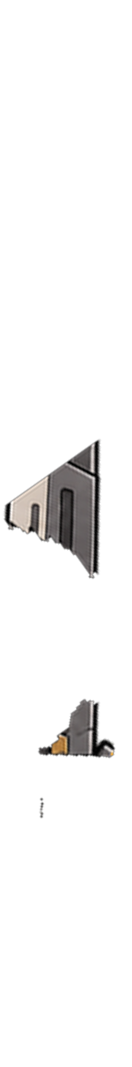
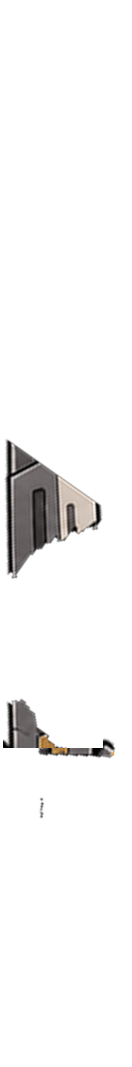
19 네온 팔로메 v1.3: 칼날 좌우 반전(날이 휘두르는 쪽으로)
DHL 10-20 20:38 '칼을 좌우반전 · 칼날이 뒤에 있어요'. 세운 칼 그림에서
날밑 위 칼날만 칼날 가운데 세로선으로 거울 — 날밑·손잡이·폼멜·쥔 점 그대로.
guardArt·칼끝 점도 같은 거울. 공격 꼭대기 585 → 583.

Claude-Session: https://claude.ai/code/session_011WxNHak8EsK79yqEoeePC7

Changed region(s): [[0.0303, 0.4021, 0.7879, 0.5567], [0.0303, 0.6495, 0.7879, 0.7113]]

diff --git a/assets/rig/palome-neon/rig.def.js b/assets/rig/palome-neon/rig.def.js
@@ -1,3 +1,3 @@
 // 자동 생성: rig.json을 JS로 감싼 것. 원본은 같은 폴더의 rig.json (source/build_neon19.py)
 window.MR_RIG_DEFS=window.MR_RIG_DEFS||{};
-window.MR_RIG_DEFS['palome-neon']={"name": "palome-neon", "version": "9897b4d6", "units": "rig px (원화 512 ×2)", "refOrigin": [560.0, 1002.0], "refScale": 1.0, "refLift": 0, "parts": {"torso": {"src": "parts/torso.png", "pivot": [182.0, 243.0], "scale": 2.0}, "skirt": {"src": "parts/skirt.png", "pivot": [133.0, 18.0], "scale": 2.0, "mesh": {"cols": 8, "rows": 6}}, "head": {"src": "parts/head.png", "pivot": [77.0, 146.0], "scale": 2.0}, "pauldron": {"src": "parts/pauldron.png", "pivot": [93.0, 93.0], "scale": 2.0}, "armU": {"src": "parts/armU.png", "pivot": [54.0, 22.0], "scale": 2.0, "elbow": [28.0, 83.0]}, "armL": {"src": "parts/armL.png", "pivot": [51.0, 16.0], "scale": 2.0, "fist": [79.8, 94.0]}, "armF": {"src": "parts/armF.png", "pivot": [29.0, 31.0], "scale": 2.0, "elbow": [85.0, 87.0]}, "foreF": {"src": "parts/foreF.png", "pivot": [38.0, 55.0], "scale": 2.0}, "fistF": {"src": "parts/fistF.png", "pivot": [39.0, 61.0], "scale": 2.0}, "weapon": {"src": "parts/weapon.png", "pivot": [54.0, 887.0], "scale": 1.0, "tip": [66.1, 7.3], "tips": [[54.1, 27.3], [94.1, 27.3]], "guard": [58.0, 771.6], "pommel": [49.0, 1031.2]}, "guardArt": {"src": "parts/guardArt.png", "pivot": [54.0, 887.0], "scale": 1.0}, "face_happy": {"src": "parts/face_happy.png", "pivot": [77.0, 146.0], "scale": 2.0}, "face_angry": {"src": "parts/face_angry.png", "pivot": [77.0, 146.0], "scale": 2.0}, "face_focus": {"src": "parts/face_focus.png", "pivot": [77.0, 146.0], "scale": 2.0}, "face_shout": {"src": "parts/face_shout.png", "pivot": [77.0, 146.0], "scale": 2.0}, "face_effort": {"src": "parts/face_effort.png", "pivot": [77.0, 146.0], "scale": 2.0}, "face_half": {"src": "parts/face_half.png", "pivot": [77.0, 146.0], "scale": 2.0}, "face_closed": {"src": "parts/face_closed.png", "pivot": [77.0, 146.0], "scale": 2.0}, "bootStandN": {"src": "parts/bootStandN.png", "pivot": [30.0, 44.0], "scale": 2.0}, "bootStandF": {"src": "parts/bootStandF.png", "pivot": [37.0, 43.0], "scale": 2.0}, "bootNRun": {"src": "parts/bootNRun.png", "pivot": [22.7, 36.0], "scale": 2.0}, "bootFRun": {"src": "parts/bootFRun.png", "pivot": [21.1, 32.0], "scale": 2.0}, "shinP": {"src": "parts/shinP.png", "pivot": [0, 0], "scale": 1}, "gF": {"src": "parts/fistF.png", "pivot": [39.0, 61.0], "grip": [34.0, 37.4], "elbow": [39.0, 61.0], "wrist": [39.0, 61.0], "scale": 2.0, "shaftDir": [-0.8173, -0.5763], "fore": "foreFa", "foreBone": "foreFb", "foreDir": [0.0748, 0.9972]}, "foreFa": {"src": "parts/foreF.png", "pivot": [35.0, 15.0], "elbow": [38.0, 55.0], "scale": 2.0}}, "bones": [{"name": "root", "parent": null, "pos": [0, 0]}, {"name": "hip", "parent": "root", "pos": [16.0, -192.0]}, {"name": "skirt", "parent": "hip", "pos": [0.0, 0.0], "part": "skirt"}, {"name": "torso", "parent": "hip", "pos": [0.0, 0.0], "part": "torso"}, {"name": "head", "parent": "torso", "pos": [24.0, -200.0], "part": "head"}, {"name": "armF", "parent": "torso", "pos": [128.0, -258.0], "part": "armF"}, {"name": "foreF", "parent": "armF", "pos": [112.0, 112.0], "part": "foreF"}, {"name": "fistF", "parent": "foreF", "pos": [-6.0, -80.0], "part": "fistF"}, {"name": "weapon", "parent": "fistF", "pos": [-10.0, -47.2], "rot": -0.9567, "part": "weapon"}, {"name": "armU", "parent": "torso", "pos": [-232.0, -246.0], "part": "armU"}, {"name": "armL", "parent": "armU", "pos": [-52.0, 122.0], "rot": 0.3, "part": "armL"}, {"name": "pauldron", "parent": "torso", "pos": [-232.0, -246.0], "part": "pauldron"}, {"name": "cape", "parent": "torso", "pos": [24.0, -200.0]}, {"name": "scarf", "parent": "torso", "pos": [24.0, -200.0]}, {"name": "pouch", "parent": "hip", "pos": [0.0, 0.0]}, {"name": "pauldronF", "parent": "torso", "pos": [128.0, -258.0]}, {"name": "foreFb", "parent": "torso", "pos": [234.0, -226.0]}, {"name": "guardArt", "parent": "weapon", "pos": [0.0, 0.0], "part": "guardArt"}], "legs": {"hip": [0, 66.0], "thigh": 48, "shin": 48, "thighImg": {"part": "shinP", "a": [22, 0], "b": [22, 46], "w": 0.001}, "shinImg": {"part": "shinP", "a": [22, 0], "b": [22, 46], "w": 0.001}, "boot": {"part": "bootFRun", "sole": [[-19.1, 16.0], [-5.1, 17.0], [11.9, 18.0], [28.9, 18.0], [42.9, 17.0]], "ankleRange": [-1.7, 1.7]}, "tube": {"part": "shinP", "a": [22, 0], "b": [22, 46], "k": 1.2, "runBoot": true}, "near": {"x": -124.0, "shade": 0, "thighImg": {"part": "shinP", "a": [22, 0], "b": [22, 46], "w": 0.001}, "shinImg": {"part": "shinP", "a": [22, 0], "b": [22, 46], "w": 0.001}, "runBoot": "bootNRun", "stand": {"fade": [0.12, 0.4], "boot": {"part": "bootStandN", "sole": [[-27.0, 13.0], [-16.0, 18.0], [20.0, 15.0], [31.0, -20.0]]}}}, "far": {"x": 90.0, "shade": 0, "thighImg": {"part": "shinP", "a": [22, 0], "b": [22, 46], "w": 0.001}, "shinImg": {"part": "shinP", "a": [22, 0], "b": [22, 46], "w": 0.001}, "runBoot": "bootFRun", "stand": {"fade": [0.12, 0.4], "boot": {"part": "bootStandF", "sole": [[-34.0, -12.0], [-22.0, 16.0], [6.0, 19.0], [19.0, 18.0], [31.0, 16.0]]}}}}, "draw": ["legFar", "legNear", "torso", "skirt", "foreF", "weapon", "guardArt", "armU", "armL", "pauldron", "head", "fistF"], "hidden": [], "faces": {"happy": "face_happy", "angry": "face_angry", "focus": "face_focus", "shout": "face_shout", "effort": "face_effort"}, "blinkFaces": {"half": "face_half", "closed": "face_closed"}, "idleStance": {"near": -8.0, "far": 10.0}, "gait": {"stance": 0.18, "strideBase": 14, "strideK": 0.06, "hipBase": 0, "bob": 6, "lean": 0.06, "waddle": 0.02, "headBob": 3, "kneeLift": 0.2, "heelKick": 0.03, "dropCap": 12, "swingReach": 0.05, "landAng": -0.04, "angK": 0.2, "elbowRun": 0.22, "armSwing": 0.16, "armBias": 0.0, "headRun": 0.06}, "hemRun": {"lift": 8, "knee": 0.5, "heel": 0.3, "reach": 0.2}, "hemLimit": {"up": 0.25, "x": 0.3}, "hemGain": 0.15, "footReach": 0.97, "follow": [{"bone": "pauldron", "src": "armU", "k": 0.3}], "skirtFollow": 0.7, "carrySwing": 0.15, "wristRange": 0.2, "dropLift": 10, "bounce": [], "metrics": {"bodyHeight": 684, "note": "rig units; 머리카락 위(y159)~발바닥(501) ×2, 칼 제외"}, "ui": {"attack": "smash", "touch": "hop"}, "gameRef": {"refOrigin": [245.6, 501.0], "refScale": 2.0, "refLift": 0, "note": "게임 그림 char_0019.png(512) = 새 원화(ref512). x = 도감 칸(fitArt 중심 253.6, index.html measureBox 와 같은 계산)에서 골반(hip x 288)이 가운데 (9·29 팔로메와 같은 규칙)"}, "note": "19 네온 팔로메 v1(대기·달리기·한 손 내려찍기). 9 러스트 팔로메 구조(드워프 몸, 먼 팔이 칼을 어깨에 멤, 칼날 머리 뒤). 조각 = 원화를 부품별로 나눔(seg19.py) + 가려진 곳만 시트·inpaint 로 메움", "swordGrip": {"tipDepth": 6, "near": {"upper": "armF", "carry": "gF", "pieces": []}, "far": {"upper": "armU", "pieces": ["armL"], "sPref": 0}, "stretchMax": 1.05, "shoulderPush": 0}, "drawA": ["legFar", "legNear", "armF", "torso", "skirt", "foreFb", "weapon", "armU", "armL", "pauldron", "head", "foreF"], "drawStrike": ["legFar", "legNear", "armF", "torso", "skirt", "foreFb", "armU", "armL", "pauldron", "head", "weapon", "foreF"], "drawR": ["legFar", "legNear", "torso", "skirt", "foreFb", "weapon", "armU", "armL", "pauldron", "head", "foreF"], "drawB": ["legFar", "legNear", "armF", "foreFb", "weapon", "foreF", "torso", "skirt", "armU", "armL", "pauldron", "head"], "drawB0": ["legFar", "legNear", "foreFb", "weapon", "foreF", "torso", "skirt", "armU", "armL", "pauldron", "head"], "drawA0": ["legFar", "legNear", "armF", "torso", "skirt", "foreFb", "weapon", "guardArt", "armU", "armL", "pauldron", "head", "foreF"], "drawR0": ["legFar", "legNear", "torso", "skirt", "foreFb", "weapon", "guardArt", "armU", "armL", "pauldron", "head", "foreF"], "actions": {"smash": {"kind": "sword", "rigid": true, "orderAlways": true, "dur": 0.9, "hitAt": 0.45, "hitStop": 0.07, "cancelAt": 0.66, "w": [[0, 1]], "reach": [[0, 0]], "nPiece": [[0, "gF"]], "nUpper": [[0, "armF"]], "armIK": [[0, 1]], "ikSideK": {"N": [[0, 1]]}, "gx": [[0.0, 224.0, "io"], [0.12, 212.0, "io"], [0.28, 192.0, "io"], [0.33, 224.0, "lin"], [0.355, 276.0, "lin"], [0.37, 284.0, "lin"], [0.385, 304.0, "lin"], [0.4, 312.0, "lin"], [0.415, 348.0, "lin"], [0.43, 332.0, "lin"], [0.45, 314.0, "io"], [0.6, 310.0, "io"], [0.65, 348.0, "lin"], [0.7, 304.0, "lin"], [0.75, 276.0, "io"], [0.8, 224.0, "io"], [0.86, 224.0, "io"]], "gy": [[0.0, -273.2, "io"], [0.12, -338.0, "io"], [0.28, -410.0, "io"], [0.33, -232.0, "lin"], [0.355, -170.0, "lin"], [0.37, -138.0, "lin"], [0.385, -104.0, "lin"], [0.4, -76.0, "lin"], [0.415, -60.0, "lin"], [0.43, -36.0, "lin"], [0.45, 2.0, "io"], [0.6, 0.0, "io"], [0.65, -60.0, "lin"], [0.7, -104.0, "lin"], [0.75, -170.0, "io"], [0.8, -232.0, "io"], [0.86, -273.2, "io"]], "sa": [[0.0, -2.5168, "io"], [0.12, -2.6529, "io"], [0.28, -2.8972, "io"], [0.33, -2.3736, "lin"], [0.355, -2.0944, "lin"], [0.37, -1.8326, "lin"], [0.385, -1.5708, "lin"], [0.4, -1.309, "lin"], [0.415, -1.0472, "lin"], [0.43, -0.7854, "lin"], [0.45, 0.096, "io"], [0.6, 0.096, "io"], [0.65, -1.0472, "lin"], [0.7, -1.5708, "lin"], [0.75, -2.0944, "io"], [0.8, -2.3736, "io"], [0.86, -2.5168, "io"]], "lean": [[0.0, 0.0, "io"], [0.12, -0.0698, "io"], [0.28, -0.1571, "io"], [0.33, 0.1047, "lin"], [0.355, 0.1745, "lin"], [0.37, 0.2269, "lin"], [0.385, 0.2443, "lin"], [0.4, 0.2443, "lin"], [0.415, 0.2443, "lin"], [0.43, 0.2443, "lin"], [0.45, 0.2443, "io"], [0.6, 0.2269, "io"], [0.65, 0.2443, "lin"], [0.7, 0.2443, "lin"], [0.75, 0.1745, "io"], [0.8, 0.1047, "io"], [0.86, 0.0, "io"]], "hipY": [[0.0, 0.0, "io"], [0.12, 8.0, "io"], [0.28, 0.0, "io"], [0.33, 12.0, "lin"], [0.355, 18.0, "lin"], [0.37, 22.0, "lin"], [0.385, 24.0, "lin"], [0.4, 24.0, "lin"], [0.415, 24.0, "lin"], [0.43, 24.0, "lin"], [0.45, 24.0, "io"], [0.6, 22.0, "io"], [0.65, 24.0, "lin"], [0.7, 24.0, "lin"], [0.75, 18.0, "io"], [0.8, 12.0, "io"], [0.86, 0.0, "io"]], "head": [[0, 0], [0.28, -0.06, "io"], [0.45, 0.05, "io"], [0.6, 0.04, "io"], [0.86, 0]], "freeArm": true, "fuA": [[0, 0], [0.28, -0.12, "io"], [0.45, 0.3, "o"], [0.6, 0.26, "io"], [0.86, 0]], "flA": [[0, 0], [0.28, -0.08, "io"], [0.45, 0.18, "o"], [0.6, 0.15, "io"], [0.86, 0]], "face": [[0, "angry"], [0.12, "effort"], [0.4, "shout"], [0.62, "focus"], [0.82, null]], "order": [[0, "drawA0"], [0.04, "drawA"], [0.31, "drawB0"], [0.35, "drawB"], [0.73, "drawR"], [0.85, "drawR0"]]}}, "cutHold": 0.25};
+window.MR_RIG_DEFS['palome-neon']={"name": "palome-neon", "version": "43a77fc4", "units": "rig px (원화 512 ×2)", "refOrigin": [560.0, 1002.0], "refScale": 1.0, "refLift": 0, "parts": {"torso": {"src": "parts/torso.png", "pivot": [182.0, 243.0], "scale": 2.0}, "skirt": {"src": "parts/skirt.png", "pivot": [133.0, 18.0], "scale": 2.0, "mesh": {"cols": 8, "rows": 6}}, "head": {"src": "parts/head.png", "pivot": [77.0, 146.0], "scale": 2.0}, "pauldron": {"src": "parts/pauldron.png", "pivot": [93.0, 93.0], "scale": 2.0}, "armU": {"src": "parts/armU.png", "pivot": [54.0, 22.0], "scale": 2.0, "elbow": [28.0, 83.0]}, "armL": {"src": "parts/armL.png", "pivot": [51.0, 16.0], "scale": 2.0, "fist": [79.8, 94.0]}, "armF": {"src": "parts/armF.png", "pivot": [29.0, 31.0], "scale": 2.0, "elbow": [85.0, 87.0]}, "foreF": {"src": "parts/foreF.png", "pivot": [38.0, 55.0], "scale": 2.0}, "fistF": {"src": "parts/fistF.png", "pivot": [39.0, 61.0], "scale": 2.0}, "weapon": {"src": "parts/weapon.png", "pivot": [54.0, 887.0], "scale": 1.0, "tip": [38.9, 7.3], "tips": [[50.9, 27.3], [10.9, 27.3]], "guard": [58.0, 771.6], "pommel": [49.0, 1031.2]}, "guardArt": {"src": "parts/guardArt.png", "pivot": [54.0, 887.0], "scale": 1.0}, "face_happy": {"src": "parts/face_happy.png", "pivot": [77.0, 146.0], "scale": 2.0}, "face_angry": {"src": "parts/face_angry.png", "pivot": [77.0, 146.0], "scale": 2.0}, "face_focus": {"src": "parts/face_focus.png", "pivot": [77.0, 146.0], "scale": 2.0}, "face_shout": {"src": "parts/face_shout.png", "pivot": [77.0, 146.0], "scale": 2.0}, "face_effort": {"src": "parts/face_effort.png", "pivot": [77.0, 146.0], "scale": 2.0}, "face_half": {"src": "parts/face_half.png", "pivot": [77.0, 146.0], "scale": 2.0}, "face_closed": {"src": "parts/face_closed.png", "pivot": [77.0, 146.0], "scale": 2.0}, "bootStandN": {"src": "parts/bootStandN.png", "pivot": [30.0, 44.0], "scale": 2.0}, "bootStandF": {"src": "parts/bootStandF.png", "pivot": [37.0, 43.0], "scale": 2.0}, "bootNRun": {"src": "parts/bootNRun.png", "pivot": [22.7, 36.0], "scale": 2.0}, "bootFRun": {"src": "parts/bootFRun.png", "pivot": [21.1, 32.0], "scale": 2.0}, "shinP": {"src": "parts/shinP.png", "pivot": [0, 0], "scale": 1}, "gF": {"src": "parts/fistF.png", "pivot": [39.0, 61.0], "grip": [34.0, 37.4], "elbow": [39.0, 61.0], "wrist": [39.0, 61.0], "scale": 2.0, "shaftDir": [-0.8173, -0.5763], "fore": "foreFa", "foreBone": "foreFb", "foreDir": [0.0748, 0.9972]}, "foreFa": {"src": "parts/foreF.png", "pivot": [35.0, 15.0], "elbow": [38.0, 55.0], "scale": 2.0}}, "bones": [{"name": "root", "parent": null, "pos": [0, 0]}, {"name": "hip", "parent": "root", "pos": [16.0, -192.0]}, {"name": "skirt", "parent": "hip", "pos": [0.0, 0.0], "part": "skirt"}, {"name": "torso", "parent": "hip", "pos": [0.0, 0.0], "part": "torso"}, {"name": "head", "parent": "torso", "pos": [24.0, -200.0], "part": "head"}, {"name": "armF", "parent": "torso", "pos": [128.0, -258.0], "part": "armF"}, {"name": "foreF", "parent": "armF", "pos": [112.0, 112.0], "part": "foreF"}, {"name": "fistF", "parent": "foreF", "pos": [-6.0, -80.0], "part": "fistF"}, {"name": "weapon", "parent": "fistF", "pos": [-10.0, -47.2], "rot": -0.9567, "part": "weapon"}, {"name": "armU", "parent": "torso", "pos": [-232.0, -246.0], "part": "armU"}, {"name": "armL", "parent": "armU", "pos": [-52.0, 122.0], "rot": 0.3, "part": "armL"}, {"name": "pauldron", "parent": "torso", "pos": [-232.0, -246.0], "part": "pauldron"}, {"name": "cape", "parent": "torso", "pos": [24.0, -200.0]}, {"name": "scarf", "parent": "torso", "pos": [24.0, -200.0]}, {"name": "pouch", "parent": "hip", "pos": [0.0, 0.0]}, {"name": "pauldronF", "parent": "torso", "pos": [128.0, -258.0]}, {"name": "foreFb", "parent": "torso", "pos": [234.0, -226.0]}, {"name": "guardArt", "parent": "weapon", "pos": [0.0, 0.0], "part": "guardArt"}], "legs": {"hip": [0, 66.0], "thigh": 48, "shin": 48, "thighImg": {"part": "shinP", "a": [22, 0], "b": [22, 46], "w": 0.001}, "shinImg": {"part": "shinP", "a": [22, 0], "b": [22, 46], "w": 0.001}, "boot": {"part": "bootFRun", "sole": [[-19.1, 16.0], [-5.1, 17.0], [11.9, 18.0], [28.9, 18.0], [42.9, 17.0]], "ankleRange": [-1.7, 1.7]}, "tube": {"part": "shinP", "a": [22, 0], "b": [22, 46], "k": 1.2, "runBoot": true}, "near": {"x": -124.0, "shade": 0, "thighImg": {"part": "shinP", "a": [22, 0], "b": [22, 46], "w": 0.001}, "shinImg": {"part": "shinP", "a": [22, 0], "b": [22, 46], "w": 0.001}, "runBoot": "bootNRun", "stand": {"fade": [0.12, 0.4], "boot": {"part": "bootStandN", "sole": [[-27.0, 13.0], [-16.0, 18.0], [20.0, 15.0], [31.0, -20.0]]}}}, "far": {"x": 90.0, "shade": 0, "thighImg": {"part": "shinP", "a": [22, 0], "b": [22, 46], "w": 0.001}, "shinImg": {"part": "shinP", "a": [22, 0], "b": [22, 46], "w": 0.001}, "runBoot": "bootFRun", "stand": {"fade": [0.12, 0.4], "boot": {"part": "bootStandF", "sole": [[-34.0, -12.0], [-22.0, 16.0], [6.0, 19.0], [19.0, 18.0], [31.0, 16.0]]}}}}, "draw": ["legFar", "legNear", "torso", "skirt", "foreF", "weapon", "guardArt", "armU", "armL", "pauldron", "head", "fistF"], "hidden": [], "faces": {"happy": "face_happy", "angry": "face_angry", "focus": "face_focus", "shout": "face_shout", "effort": "face_effort"}, "blinkFaces": {"half": "face_half", "closed": "face_closed"}, "idleStance": {"near": -8.0, "far": 10.0}, "gait": {"stance": 0.18, "strideBase": 14, "strideK": 0.06, "hipBase": 0, "bob": 6, "lean": 0.06, "waddle": 0.02, "headBob": 3, "kneeLift": 0.2, "heelKick": 0.03, "dropCap": 12, "swingReach": 0.05, "landAng": -0.04, "angK": 0.2, "elbowRun": 0.22, "armSwing": 0.16, "armBias": 0.0, "headRun": 0.06}, "hemRun": {"lift": 8, "knee": 0.5, "heel": 0.3, "reach": 0.2}, "hemLimit": {"up": 0.25, "x": 0.3}, "hemGain": 0.15, "footReach": 0.97, "follow": [{"bone": "pauldron", "src": "armU", "k": 0.3}], "skirtFollow": 0.7, "carrySwing": 0.15, "wristRange": 0.2, "dropLift": 10, "bounce": [], "metrics": {"bodyHeight": 684, "note": "rig units; 머리카락 위(y159)~발바닥(501) ×2, 칼 제외"}, "ui": {"attack": "smash", "touch": "hop"}, "gameRef": {"refOrigin": [245.6, 501.0], "refScale": 2.0, "refLift": 0, "note": "게임 그림 char_0019.png(512) = 새 원화(ref512). x = 도감 칸(fitArt 중심 253.6, index.html measureBox 와 같은 계산)에서 골반(hip x 288)이 가운데 (9·29 팔로메와 같은 규칙)"}, "note": "19 네온 팔로메 v1(대기·달리기·한 손 내려찍기). 9 러스트 팔로메 구조(드워프 몸, 먼 팔이 칼을 어깨에 멤, 칼날 머리 뒤). 조각 = 원화를 부품별로 나눔(seg19.py) + 가려진 곳만 시트·inpaint 로 메움", "swordGrip": {"tipDepth": 6, "near": {"upper": "armF", "carry": "gF", "pieces": []}, "far": {"upper": "armU", "pieces": ["armL"], "sPref": 0}, "stretchMax": 1.05, "shoulderPush": 0}, "drawA": ["legFar", "legNear", "armF", "torso", "skirt", "foreFb", "weapon", "armU", "armL", "pauldron", "head", "foreF"], "drawStrike": ["legFar", "legNear", "armF", "torso", "skirt", "foreFb", "armU", "armL", "pauldron", "head", "weapon", "foreF"], "drawR": ["legFar", "legNear", "torso", "skirt", "foreFb", "weapon", "armU", "armL", "pauldron", "head", "foreF"], "drawB": ["legFar", "legNear", "armF", "foreFb", "weapon", "foreF", "torso", "skirt", "armU", "armL", "pauldron", "head"], "drawB0": ["legFar", "legNear", "foreFb", "weapon", "foreF", "torso", "skirt", "armU", "armL", "pauldron", "head"], "drawA0": ["legFar", "legNear", "armF", "torso", "skirt", "foreFb", "weapon", "guardArt", "armU", "armL", "pauldron", "head", "foreF"], "drawR0": ["legFar", "legNear", "torso", "skirt", "foreFb", "weapon", "guardArt", "armU", "armL", "pauldron", "head", "foreF"], "actions": {"smash": {"kind": "sword", "rigid": true, "orderAlways": true, "dur": 0.9, "hitAt": 0.45, "hitStop": 0.07, "cancelAt": 0.66, "w": [[0, 1]], "reach": [[0, 0]], "nPiece": [[0, "gF"]], "nUpper": [[0, "armF"]], "armIK": [[0, 1]], "ikSideK": {"N": [[0, 1]]}, "gx": [[0.0, 224.0, "io"], [0.12, 212.0, "io"], [0.28, 192.0, "io"], [0.33, 224.0, "lin"], [0.355, 276.0, "lin"], [0.37, 284.0, "lin"], [0.385, 304.0, "lin"], [0.4, 312.0, "lin"], [0.415, 348.0, "lin"], [0.43, 332.0, "lin"], [0.45, 314.0, "io"], [0.6, 310.0, "io"], [0.65, 348.0, "lin"], [0.7, 304.0, "lin"], [0.75, 276.0, "io"], [0.8, 224.0, "io"], [0.86, 224.0, "io"]], "gy": [[0.0, -273.2, "io"], [0.12, -338.0, "io"], [0.28, -410.0, "io"], [0.33, -232.0, "lin"], [0.355, -170.0, "lin"], [0.37, -138.0, "lin"], [0.385, -104.0, "lin"], [0.4, -76.0, "lin"], [0.415, -60.0, "lin"], [0.43, -36.0, "lin"], [0.45, 2.0, "io"], [0.6, 0.0, "io"], [0.65, -60.0, "lin"], [0.7, -104.0, "lin"], [0.75, -170.0, "io"], [0.8, -232.0, "io"], [0.86, -273.2, "io"]], "sa": [[0.0, -2.5168, "io"], [0.12, -2.6529, "io"], [0.28, -2.8972, "io"], [0.33, -2.3736, "lin"], [0.355, -2.0944, "lin"], [0.37, -1.8326, "lin"], [0.385, -1.5708, "lin"], [0.4, -1.309, "lin"], [0.415, -1.0472, "lin"], [0.43, -0.7854, "lin"], [0.45, 0.096, "io"], [0.6, 0.096, "io"], [0.65, -1.0472, "lin"], [0.7, -1.5708, "lin"], [0.75, -2.0944, "io"], [0.8, -2.3736, "io"], [0.86, -2.5168, "io"]], "lean": [[0.0, 0.0, "io"], [0.12, -0.0698, "io"], [0.28, -0.1571, "io"], [0.33, 0.1047, "lin"], [0.355, 0.1745, "lin"], [0.37, 0.2269, "lin"], [0.385, 0.2443, "lin"], [0.4, 0.2443, "lin"], [0.415, 0.2443, "lin"], [0.43, 0.2443, "lin"], [0.45, 0.2443, "io"], [0.6, 0.2269, "io"], [0.65, 0.2443, "lin"], [0.7, 0.2443, "lin"], [0.75, 0.1745, "io"], [0.8, 0.1047, "io"], [0.86, 0.0, "io"]], "hipY": [[0.0, 0.0, "io"], [0.12, 8.0, "io"], [0.28, 0.0, "io"], [0.33, 12.0, "lin"], [0.355, 18.0, "lin"], [0.37, 22.0, "lin"], [0.385, 24.0, "lin"], [0.4, 24.0, "lin"], [0.415, 24.0, "lin"], [0.43, 24.0, "lin"], [0.45, 24.0, "io"], [0.6, 22.0, "io"], [0.65, 24.0, "lin"], [0.7, 24.0, "lin"], [0.75, 18.0, "io"], [0.8, 12.0, "io"], [0.86, 0.0, "io"]], "head": [[0, 0], [0.28, -0.06, "io"], [0.45, 0.05, "io"], [0.6, 0.04, "io"], [0.86, 0]], "freeArm": true, "fuA": [[0, 0], [0.28, -0.12, "io"], [0.45, 0.3, "o"], [0.6, 0.26, "io"], [0.86, 0]], "flA": [[0, 0], [0.28, -0.08, "io"], [0.45, 0.18, "o"], [0.6, 0.15, "io"], [0.86, 0]], "face": [[0, "angry"], [0.12, "effort"], [0.4, "shout"], [0.62, "focus"], [0.82, null]], "order": [[0, "drawA0"], [0.04, "drawA"], [0.31, "drawB0"], [0.35, "drawB"], [0.73, "drawR"], [0.85, "drawR0"]]}}, "cutHold": 0.25};

diff --git a/assets/rig/palome-neon/source/build_neon19.py b/assets/rig/palome-neon/source/build_neon19.py
@@ -205,6 +205,22 @@ _gm = (SW0[..., 3] > 0) & ((np.abs(SW0.astype(int) - sw.astype(int)).max(-1) > 8
 ga = np.zeros_like(SW0); ga[_gm] = SW0[_gm]
 ga2 = cv2.resize(ga, None, fx=UPS, fy=UPS, interpolation=cv2.INTER_LANCZOS4); ga2[..., 3] = np.clip(cv2.resize(ga[..., 3], None, fx=UPS, fy=UPS, interpolation=cv2.INTER_LINEAR), 0, 255)
 gav = cv2.warpAffine(ga2, Rm, (WS, HS), flags=cv2.INTER_CUBIC, borderValue=(0, 0, 0, 0))[y0:y0 + swv.shape[0], x0:x0 + swv.shape[1]]
+# 칼날 좌우 반전(10-20 20:38 DHL '칼을 좌우반전 · 칼날이 뒤에 있어요'): 원화는 크림 날이 어깨 쪽(아래), 회색 등이 위 → 앞으로 내려찍으면 등이 앞장섬.
+#   세운 칼 그림에서 날밑 위 칼날만 칼날 가운데 세로선(날밑 바로 위 칼날 폭 가운데)으로 거울 — 날밑·손잡이·폼멜은 그대로(주먹·쥔 점·칼 방향·길이 그대로).
+#   날밑 오른쪽 위 뿔(x > 102)은 날밑 것이라 빼고, 날밑 윗선(y ≥ 748)부터는 그대로. guardArt(대기 원화 칼 픽셀)도 같은 거울 → 대기 = '원화 칼을 뒤집은 것'
+FLIP_BLADE = True
+if FLIP_BLADE:
+    _al_ = swv[..., 3] > 40; _gy = int(round(W_GUARD[1])); _rows = [y for y in range(_gy - 40, _gy - 30) if _al_[y].any()]
+    _bx = [np.nonzero(_al_[y])[0] for y in _rows]; BCX = float(np.median([(b.min() + b.max()) / 2 for b in _bx]))   # 날밑 바로 위 칼날 폭 가운데
+    YCUT = _gy - 24; XL, XR = 3, int(2 * BCX) - 3
+    def _mir(img):
+        out = img.copy(); ys_ = slice(0, YCUT); xd = np.arange(XL, XR + 1); xs_ = np.round(2 * BCX - xd).astype(int)
+        blk = img[ys_][:, xs_].copy(); out[ys_, XL:XR + 1] = blk; return out
+    swv = _mir(swv); gav = _mir(gav)
+    W_TIP = np.array([2 * BCX - W_TIP[0], W_TIP[1]])
+    Image.fromarray(swv).save(os.path.join(PARTS, 'weapon.png')); Image.fromarray(gav).save(os.path.join(PARTS, 'guardArt.png'))
+    print('  blade flipped about x', BCX, 'rows <', YCUT, 'cols', XL, '~', XR)
+TIPS_DX = (12, -28) if FLIP_BLADE else (-12, 28)   # 칼끝 두 모서리(날 쪽·등 쪽)도 같이 거울
 Image.fromarray(gav).save(os.path.join(PARTS, 'guardArt.png')); print('  guardArt', int(_gm.sum()), 'px')
 print('  sword vertical: tip', np.round(W_TIP, 1), 'grip', np.round(W_PIV, 1), 'rot', round(rot_deg, 2))
 # ---------------- 다리 ----------------
@@ -275,7 +291,7 @@ P_('torso', HIP); P_('skirt', HIP, mesh={'cols': 8, 'rows': 6}); P_('head', NECK
 P_('pauldron', SH_N); P_('armU', SH_N, elbow=piv('armU', EL_N)); P_('armL', EL_N, fist=piv('armL', WR_N + (WR_N - EL_N) * .2))
 P_('armF', SH_F, elbow=piv('armF', EL_F)); P_('foreF', EL_F); P_('fistF', WR_F)
 parts['weapon'] = {'src': 'parts/weapon.png', 'pivot': [round(float(W_PIV[0]), 1), round(float(W_PIV[1]), 1)], 'scale': SC / UPS,
-                   'tip': [round(float(W_TIP[0]), 1), round(float(W_TIP[1]), 1)], 'tips': [[round(float(W_TIP[0]) - 6 * UPS, 1), round(float(W_TIP[1]) + 10 * UPS, 1)], [round(float(W_TIP[0]) + 14 * UPS, 1), round(float(W_TIP[1]) + 10 * UPS, 1)]],
+                   'tip': [round(float(W_TIP[0]), 1), round(float(W_TIP[1]), 1)], 'tips': [[round(float(W_TIP[0]) + TIPS_DX[0], 1), round(float(W_TIP[1]) + 10 * UPS, 1)], [round(float(W_TIP[0]) + TIPS_DX[1], 1), round(float(W_TIP[1]) + 10 * UPS, 1)]],
                    'guard': [round(float(W_GUARD[0]), 1), round(float(W_GUARD[1]), 1)], 'pommel': [round(float(W_POM[0]), 1), round(float(W_POM[1]), 1)]}
 parts['guardArt'] = {'src': 'parts/guardArt.png', 'pivot': [round(float(W_PIV[0]), 1), round(float(W_PIV[1]), 1)], 'scale': SC / UPS}
 for n in FACE_N + BLINK_N: parts[f'face_{n}'] = {'src': f'parts/face_{n}.png', 'pivot': parts['head']['pivot'], 'scale': SC}

diff --git a/assets/rig/palome-neon/STATUS.md b/assets/rig/palome-neon/STATUS.md
@@ -69,3 +69,10 @@
 - 파일 수 511 → 500: 11 네온 알론소 동작 시트 프레임 14장(refs/alonso-neon/m00~m13)을 frames.webp 한 장 + REF_CELLS 로 합침(칸별 색 차이 평균 ≈2.5/255, 알파 0)
 - 올리기 전 로컬에서 편집기 페이지 열어 봄: 캐릭터 목록 맨 위 · 대기·공격 정상 · 기준 그림 '원화' 목록 · 페이지 오류 0. rig.js 141954 bytes 그대로(md5 109d8d61…)
 - 배운 것: 편집 툴 파일 받기(Artifact read)에 저장 위치(out_dir)를 따로 주면 한 장마다 DHL 승인 요청이 감(10-20 20:26 DHL '계속 허락 요청') → 기본 위치(scratchpad 의 artifact-files)로 받음
+
+## 20:42 (10-20) v1.3 칼날 좌우 반전(DHL 20:38 '칼을 좌우반전 · 칼날이 뒤에 있어요')
+- 원화 칼 = 외날(크림 날 + 회색 등·홈). 대기에서 날이 어깨 쪽(아래)이라, 앞으로 내려찍을 때 회색 등이 앞장서고 날이 뒤를 향했음
+- build_neon19.py `FLIP_BLADE`: 세운 칼 그림(weapon.png)에서 **날밑 위 칼날만** 칼날 가운데 세로선(x 52.5 = 날밑 바로 위 칼날 폭 가운데)으로 거울, 날밑 윗선(y ≥ 748)·날밑 오른쪽 뿔·손잡이·폼멜은 그대로 → 쥔 점·주먹·칼 방향·길이 그대로. guardArt(대기 원화 칼 픽셀)도 같은 거울, 칼끝 점(tip·tips)도 거울
+- 대기 = 원화에서 칼날만 뒤집힘(날이 위, 등이 어깨 위) · 공격: 칼을 세워 앞으로 내려칠 때 크림 날이 앞(적 쪽)
+- 공격 꼭대기 높이(발바닥 위 원화 px) 585 → 583 · 다른 부품·키 그대로 · 비교 그림 `source/review/v1_3_flip_attack.jpg`(위 = 전, 아래 = 후)·`v1_3_flip_weapon.png`
+- 게임 반영 때 마이룸·도감 그림(char_0019.png)은 원화 칼 방향 그대로 — 맞출지 DHL 확인
